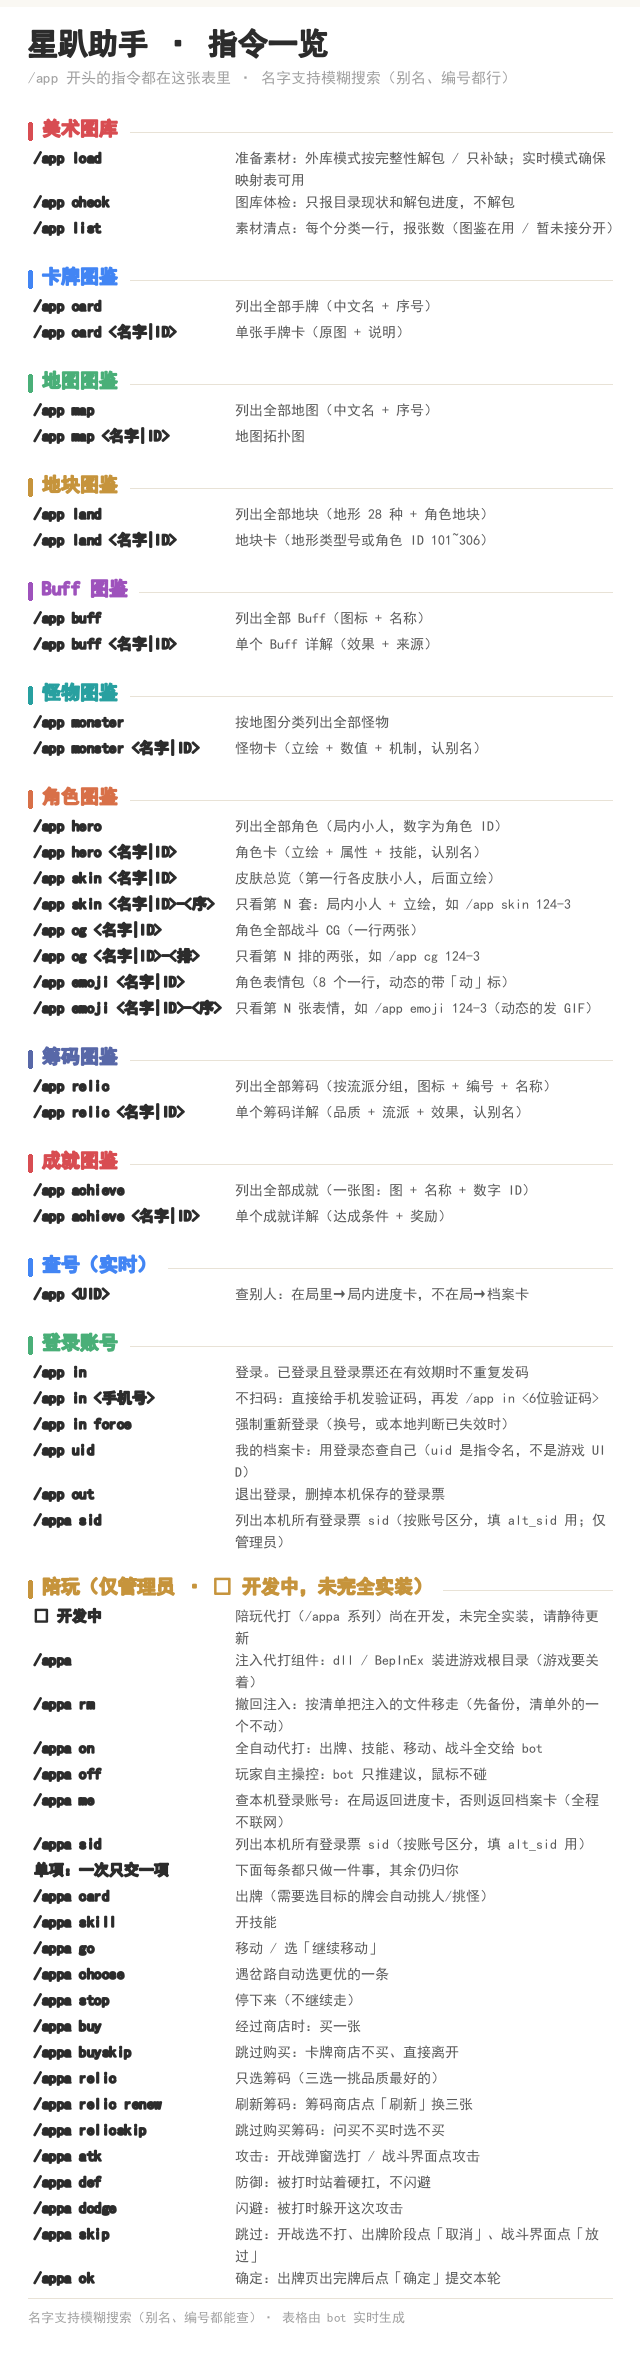
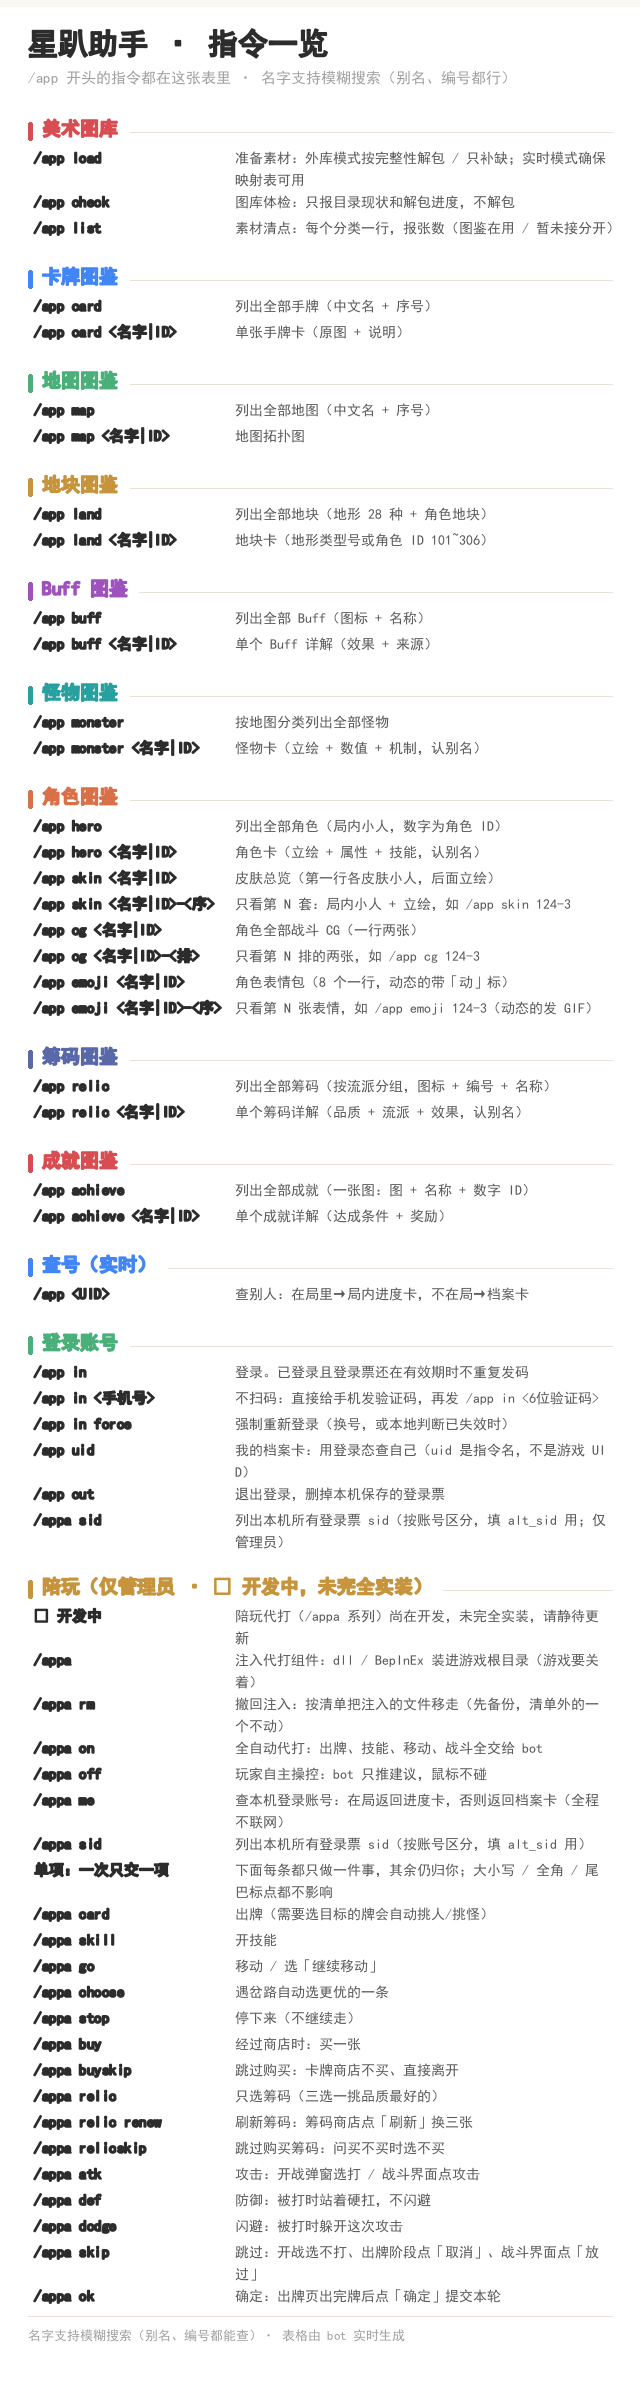
fix: /appa 子命令大小写/全角/标点归一化，并给 appa 加大写别名；2.4.10（未发布）

diff --git a/main.py b/main.py
@@ -151,7 +151,7 @@ HELP_SECTIONS = [
         ("/appa off", "玩家自主操控：bot 只推建议，鼠标不碰"),
         ("/appa me", "查本机登录账号：在局返回进度卡，否则返回档案卡（全程不联网）"),
         ("/appa sid", "列出本机所有登录票 sid（按账号区分，填 alt_sid 用）"),
-        ("单项：一次只交一项", "下面每条都只做一件事，其余仍归你"),
+        ("单项：一次只交一项", "下面每条都只做一件事，其余仍归你；大小写 / 全角 / 尾巴标点都不影响"),
         ("/appa card", "出牌（需要选目标的牌会自动挑人/挑怪）"),
         ("/appa skill", "开技能"),
         ("/appa go", "移动 / 选「继续移动」"),
@@ -221,6 +221,15 @@ _ACT_WAIT = {
 
 # /app cg / skin / emoji 的 124-3：角色 +「-序号」，只对 /app 生效
 _CG_ROW_RE = re.compile(r"^(?P<hero>.+?)[-—–](?P<row>\d{1,2})$")
+
+
+def _act_key(s: str) -> str:
+    """子命令归一化：全角转半角（ＯＫ→OK）、转小写、去掉尾巴上的标点。
+
+    手机输入法很容易打出「ＯＫ」「ok！」「ok。」，不归一化就会被当成未知子命令。
+    """
+    t = unicodedata.normalize("NFKC", str(s or "")).strip().lower()
+    return t.strip("!！。.,，、~～?？:：;；")
 
 def _clip(text: str, limit: int) -> str:
     text = text.strip()
@@ -1775,7 +1784,7 @@ class AstralPartyPilotPlugin(Star):
         yield event.image_result(tmp)
 
     # ------------------------------------------------------------ /appa ----
-    @filter.command("appa")
+    @filter.command("appa", alias={"APPA", "Appa"})
     async def appa(self, event: AstrMessageEvent):
         """代打总入口：/appa 查状态，/appa on 全自动，/appa <项> 只做那一件事。
 
@@ -1786,13 +1795,13 @@ class AstralPartyPilotPlugin(Star):
             yield event.plain_result(self._deny_text("/appa 代打"))
             return
         raw = (event.message_str or "").strip()
-        words = re.sub(r"^[/／]?\s*appa", "", raw).strip().split()
-        sub = words[0].lower() if words else ""
+        words = re.sub(r"^[/／]?\s*appa", "", raw, flags=re.I).strip().split()
+        sub = _act_key(words[0]) if words else ""
         joined = " ".join(words[1:])
 
         # 两段式子命令：/appa relic renew（relic 本体是"选筹码"，renew 是"刷新筹码"）
         if sub in ("relic", "relics", "筹码", "遗物") and \
-                joined.strip().lower() in ("renew", "refresh", "reroll", "刷新", "换一批"):
+                _act_key(joined) in ("renew", "refresh", "reroll", "刷新", "换一批"):
             sub = "relicrenew"
 
         if sub in ("me", "我", "自己", "局内", "局内卡", "状态"):

diff --git a/CHANGELOG.md b/CHANGELOG.md
@@ -1,5 +1,17 @@
 # 更新日志
 
+## [2.4.10] - 2026-11-13（未发布）
+
+### 新增
+
+- `/appa` 子命令**大小写不敏感**：`/appa OK`、`/appa Ok`、`/appa ok` 等价（此前已支持，这版补了全角与标点）。
+
+### 修复
+
+- `/appa ＯＫ`、`/appa ｏｋ`（全角）和 `/appa ok！`、`/appa ok。`（带尾巴标点）以前会被当成未知子命令，现在都会归一化（NFKC + 去标点）后正确命中 `ok`。
+- `/appa relic 刷新！`、`/appa relic RENEW` 这类两段式写法同样归一化，不再要求严格小写无标点。
+- 指令名大写 `/APPA OK`、`/Appa OK` 现在也能路由到（给 `appa` 加了 `APPA` / `Appa` 两个别名）。
+
 ## [2.4.9] - 2026-11-13
 
 ### 新增

diff --git a/README.md b/README.md
@@ -91,6 +91,7 @@
 | `/appa ok`              | 确定：出牌页出完牌后点「确定」提交本轮 |
 
 > 每个子命令都是独占的：只执行这一次，方便单项调试；
+> 子命令**大小写、全角、尾巴标点都不影响**：`/appa OK`、`/appa ＯＫ`、`/appa ok。` 都能命中同一个动作。
 > 进程在跑时切授权**不用重启**，下一帧就换挡。
 
 ### 别名`kb`
